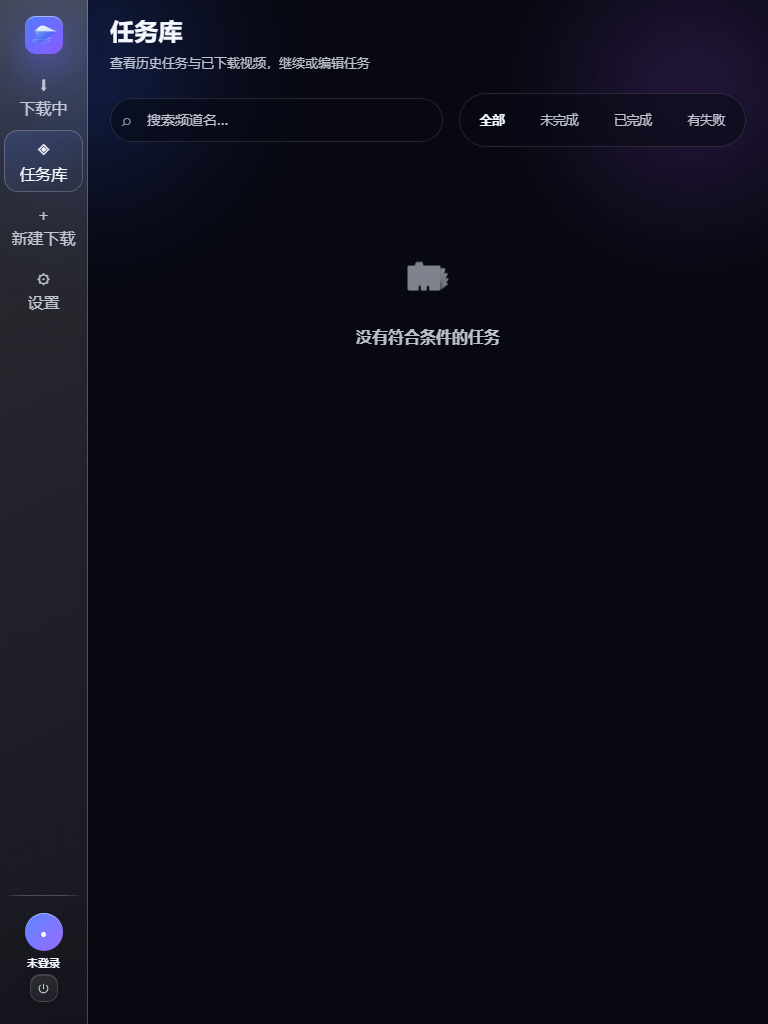
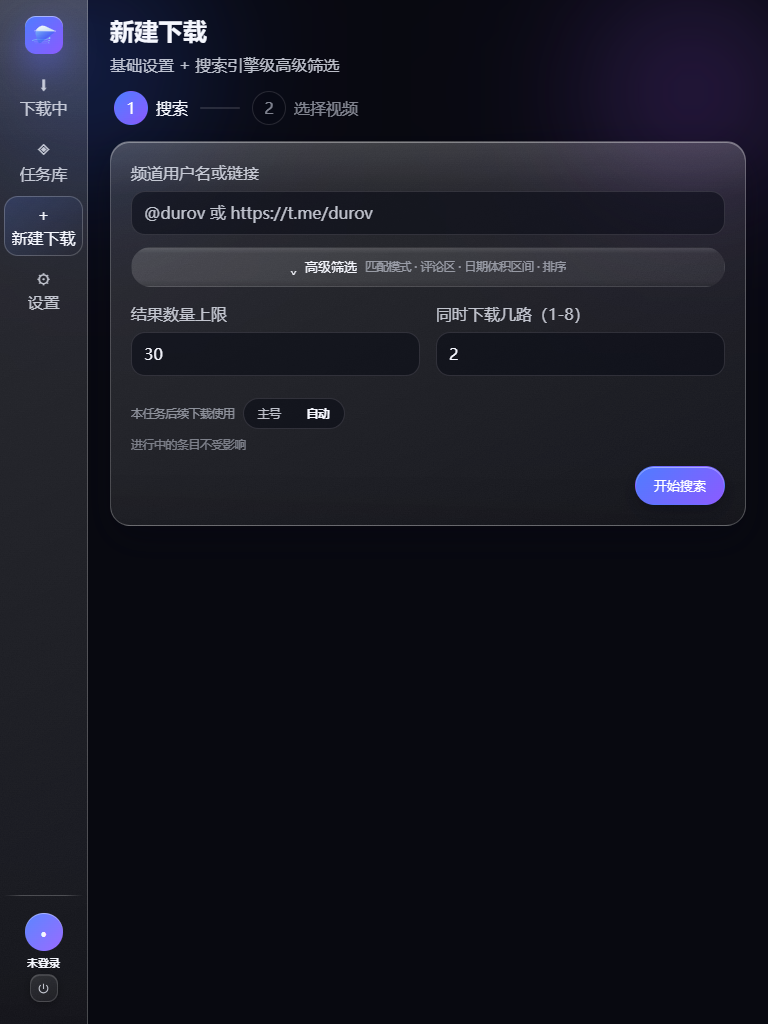
fix(ui): 修复壁纸主题墨色回落到浅色档导致设置页不可读；重采平板新建截图
data-theme=wallpaper 不匹配 light/dark，--raw-ink* 回落到深墨 #1b2233，而玻璃底按深色表仅 5-17% 白，真机 NAS 设置页正文压在照片上几乎不可读。为 wallpaper 默认档补浅墨令牌，bright 档保留既有深墨覆盖。同步把浅色警示墨色扩展到亮壁纸档。docs/images/tablet-new.png 原为 tablet-tasks.png 的字节重复，改为 768x1024 实拍。

Changed region(s): [[0.125, 0.0, 0.9688, 0.5], [0.0, 0.125, 0.0938, 0.25], [0.8125, 0.4375, 0.9688, 0.5]]

diff --git a/web/css/tokens.css b/web/css/tokens.css
@@ -410,6 +410,17 @@
    采样，挂 html[data-lum="bright"|"dark"]，本块按结果整组换原料表，
    与 §7 液态玻璃同值同口径，只是选择器挂在壁纸主题上。
    无 data-lum（采样前/失败）时保持深色表，避免首帧闪白。 */
+/* 壁纸主题的墨色：wallpaper 不像 dark 那样显式声明 data-theme="dark"，
+   --raw-ink* 会回落到浅色档（#1b2233），叠在深色玻璃与照片上几乎不可读
+   （真机 NAS 设置页实测：卡片底 17%→7% 白，正文 #1b2233）。
+   默认档（采样前/失败/暗壁纸）按深色表补浅墨；bright 档在下一块覆盖回深墨。 */
+:root[data-theme="wallpaper"] {
+  --raw-ink: #f5f7fe;
+  --raw-ink-dim: rgba(238,242,252,.78);
+  --raw-ink-mute: rgba(231,236,249,.54);
+  --raw-bg-sunk: rgba(7,9,20,.55);
+}
+
 :root[data-theme="wallpaper"][data-lum="bright"] {
   --raw-bg: #f2f5fc;          --raw-bg-2: #ffffff;
   --raw-bg-sunk: #e8edf7;    --raw-ink: #1b2233;

diff --git a/web/css/views/settings.css b/web/css/views/settings.css
@@ -195,8 +195,10 @@
     background var(--dur-sm) var(--ease-standard);
 }
 /* QA 修复：--color-warning(#d98f1f) 在浅色 warning-soft 底上实测对比度约 2.4:1，
-   低于 WCAG AA 4.5:1；沿用 .sh-guestbar 已有的浅色警示墨色 #8a5a12（≈5.2:1）。 */
-:root[data-theme="light"] .st-guest-row {
+   低于 WCAG AA 4.5:1；沿用 .sh-guestbar 已有的浅色警示墨色 #8a5a12（≈5.2:1）。
+   亮壁纸档同一套浅底 + 深墨原料表，故一并覆盖。 */
+:root[data-theme="light"] .st-guest-row,
+:root[data-theme="wallpaper"][data-lum="bright"] .st-guest-row {
   color: #8a5a12;
 }
 @media (hover: hover) and (pointer: fine) {   /* T17 去 hover 依赖 */
